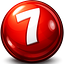
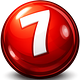
Marca da barra de cima maior e com movimento
- Aumentada a bola do 7, o nome ganhou dois pesos e a bola entra rolando ao abrir o app e gira ao passar o mouse

diff --git a/lib/components/shell/default_layout.dart b/lib/components/shell/default_layout.dart
@@ -1,3 +1,6 @@
+import 'dart:async';
+import 'dart:math' as math;
+
 import 'package:bolao_bolado/components/shell/gradient_decoration.dart';
 import 'package:bolao_bolado/core/app_cores.dart';
 import 'package:bolao_bolado/core/responsive.dart';
@@ -41,11 +44,14 @@ class DefaultLayout extends StatelessWidget {
   // espremida na altura de uma AppBar ela virava mancha e o nome não se lia.
   // Ela continua no splash e na tela inicial, onde tem espaço.
   //
-  // A bola tem 32px de altura EXATOS (images/bola_appbar.png, com as
+  // A bola tem 40px de altura EXATOS (images/bola_appbar.png, com as
   // variantes 2.0x/3.0x geradas em cima disso a partir de images/icone.png).
   // Caixa diferente faz o Flutter reescalar a arte na hora de desenhar e o
   // brilho e o traço do "7" amolecem. Mexer aqui obriga a regerar as três.
-  static const double alturaBola = 32;
+  //
+  // Foi 32 na primeira versão e lia como ícone solto, menor que o próprio
+  // nome ao lado. 40 ainda cabe na barra padrão do celular (56).
+  static const double alturaBola = 40;
 
   // Altura da barra no desktop. Fica nos 74 da logo antiga mesmo com a bola
   // menor: as telas de altura calculada já foram acertadas contra esse
@@ -136,64 +142,199 @@ class DefaultLayout extends StatelessWidget {
 }
 
 /// Bola do "7" com o nome do app ao lado (o nome some no celular).
-class _MarcaAppBar extends StatelessWidget {
+///
+/// Não é só imagem e texto: a bola entra rolando na primeira vez que a barra
+/// aparece e gira quando o mouse passa por cima. É a marca do app, e parada
+/// ao lado de um texto comum ela lia como ícone de sistema.
+class _MarcaAppBar extends StatefulWidget {
   final bool mostrarNome;
   final Color cor;
 
   const _MarcaAppBar({required this.mostrarNome, required this.cor});
 
   @override
+  State<_MarcaAppBar> createState() => _MarcaAppBarState();
+}
+
+class _MarcaAppBarState extends State<_MarcaAppBar>
+    with TickerProviderStateMixin {
+  // A entrada roda uma vez por sessão, não por tela: as trocas de rota são
+  // instantâneas e cada tela monta a sua AppBar, então sem isto a bola
+  // voltaria a rolar a cada navegação, e animação repetida em todo clique
+  // cansa em vez de enfeitar.
+  static bool _jaEntrou = false;
+
+  late final AnimationController _entrada = AnimationController(
+    vsync: this,
+    duration: const Duration(milliseconds: 750),
+  );
+  late final AnimationController _giro = AnimationController(
+    vsync: this,
+    duration: const Duration(milliseconds: 650),
+  );
+
+  @override
+  void initState() {
+    super.initState();
+    if (_jaEntrou) {
+      _entrada.value = 1;
+    } else {
+      _jaEntrou = true;
+      // O valor de "reduzir movimento" só pode ser lido depois do primeiro
+      // build (MediaQuery depende do contexto montado).
+      WidgetsBinding.instance.addPostFrameCallback((_) {
+        if (!mounted) return;
+        if (MediaQuery.disableAnimationsOf(context)) {
+          _entrada.value = 1;
+        } else {
+          unawaited(_entrada.forward());
+        }
+      });
+    }
+  }
+
+  @override
+  void dispose() {
+    _entrada.dispose();
+    _giro.dispose();
+    super.dispose();
+  }
+
+  void _girar() {
+    if (_giro.isAnimating || MediaQuery.disableAnimationsOf(context)) return;
+    unawaited(_giro.forward(from: 0));
+  }
+
+  @override
   Widget build(BuildContext context) {
+    // Rola da esquerda dando uma volta e meia, assenta com um leve passo
+    // além do ponto (easeOutBack) como bola que para de rolar.
+    final rolar = CurvedAnimation(
+      parent: _entrada,
+      curve: const Interval(0, 0.8, curve: Curves.easeOutBack),
+    );
+    // O nome entra só depois que a bola está quase parada, para os dois
+    // movimentos não disputarem o olho.
+    final nomeEntra = CurvedAnimation(
+      parent: _entrada,
+      curve: const Interval(0.45, 1, curve: Curves.easeOutCubic),
+    );
+    final girar = CurvedAnimation(parent: _giro, curve: Curves.easeOutCubic);
+
+    final bola = AnimatedBuilder(
+      animation: Listenable.merge([rolar, girar]),
+      builder: (context, filho) {
+        final t = rolar.value;
+        return Opacity(
+          opacity: _entrada.value.clamp(0, 0.25) * 4,
+          child: Transform.translate(
+            offset: Offset((t - 1) * 28, 0),
+            child: Transform.rotate(
+              angle: (t - 1) * 3 * math.pi + girar.value * 2 * math.pi,
+              child: filho,
+            ),
+          ),
+        );
+      },
+      child: DecoratedBox(
+        // Sombra curta embaixo da bola para ela pousar na barra em vez de
+        // flutuar recortada; preta e fraca funciona nos fundos claros e
+        // escuros, já que a barra é transparente sobre o gradiente.
+        decoration: BoxDecoration(
+          shape: BoxShape.circle,
+          boxShadow: [
+            BoxShadow(
+              color: Colors.black.withValues(alpha: 0.28),
+              blurRadius: 8,
+              offset: const Offset(0, 3),
+            ),
+          ],
+        ),
+        child: Image.asset(
+          // As variantes 2.0x/3.0x ao lado do arquivo é que resolvem o
+          // tamanho: o Flutter escolhe sozinho pelo DPR e cada tela desenha
+          // perto de 1:1. Foram reduzidas do icone.png em Lanczos com
+          // unsharp leve; ao mexer em `alturaBola`, regere as três (1×, 2×
+          // e 3× a caixa).
+          'images/bola_appbar.png',
+          height: DefaultLayout.alturaBola,
+          width: DefaultLayout.alturaBola,
+          // medium (bilinear) e não high (cúbico): perto de 1:1, que é onde
+          // as variantes deixam o desenho, o cúbico amolece.
+          filterQuality: FilterQuality.medium,
+        ),
+      ),
+    );
+
+    // Duas espessuras no mesmo nome dão o desenho de marca que um texto de
+    // peso único não tem, sem precisar de fonte nova nem de cor extra (a
+    // cor saturada do tema já é do botão principal).
+    final nome = Text.rich(
+      TextSpan(
+        children: [
+          TextSpan(
+            text: 'Bolão ',
+            style: TextStyle(fontWeight: FontWeight.w500),
+          ),
+          TextSpan(
+            text: 'Bolado',
+            style: TextStyle(fontWeight: FontWeight.w900),
+          ),
+        ],
+      ),
+      maxLines: 1,
+      softWrap: false,
+      style: TextStyle(
+        color: widget.cor,
+        fontSize: 22,
+        letterSpacing: -0.3,
+        height: 1,
+      ),
+    );
+
     // Um rótulo só para o conjunto: sem isso o leitor de tela anunciaria a
     // imagem e depois o mesmo nome em texto.
     return Semantics(
       label: DefaultLayout.nomeApp,
       header: true,
       child: ExcludeSemantics(
-        child: Row(
-          mainAxisSize: MainAxisSize.min,
-          children: [
-            Image.asset(
-              // As variantes 2.0x/3.0x ao lado do arquivo é que resolvem o
-              // tamanho: o Flutter escolhe sozinho pelo DPR e cada tela
-              // desenha perto de 1:1. Foram reduzidas do icone.png em
-              // Lanczos com unsharp leve; ao mexer em `alturaBola`, regere as
-              // três (1×, 2× e 3× a caixa).
-              'images/bola_appbar.png',
-              height: DefaultLayout.alturaBola,
-              width: DefaultLayout.alturaBola,
-              // medium (bilinear) e não high (cúbico): perto de 1:1, que é
-              // onde as variantes deixam o desenho, o cúbico amolece.
-              filterQuality: FilterQuality.medium,
+        child: MouseRegion(
+          onEnter: (_) => _girar(),
+          child: GestureDetector(
+            onTap: _girar,
+            child: Row(
+              mainAxisSize: MainAxisSize.min,
+              children: [
+                bola,
+                // Ao redimensionar a janela pela fronteira do celular o nome
+                // entra e sai deslizando, em vez de saltar e arrastar a bola
+                // de uma vez para o lado.
+                AnimatedSize(
+                  duration: const Duration(milliseconds: 220),
+                  curve: Curves.easeOutCubic,
+                  child: AnimatedSwitcher(
+                    duration: const Duration(milliseconds: 180),
+                    child: widget.mostrarNome
+                        ? Padding(
+                            key: const ValueKey('nome'),
+                            padding: const EdgeInsets.only(left: 12),
+                            child: FadeTransition(
+                              opacity: nomeEntra,
+                              child: SlideTransition(
+                                position: Tween(
+                                  begin: const Offset(-0.08, 0),
+                                  end: Offset.zero,
+                                ).animate(nomeEntra),
+                                child: nome,
+                              ),
+                            ),
+                          )
+                        : const SizedBox.shrink(key: ValueKey('sem-nome')),
+                  ),
+                ),
+              ],
             ),
-            // Ao redimensionar a janela pela fronteira do celular o nome
-            // entra e sai deslizando, em vez de saltar e arrastar a bola de
-            // uma vez para o lado.
-            AnimatedSize(
-              duration: const Duration(milliseconds: 220),
-              curve: Curves.easeOutCubic,
-              child: AnimatedSwitcher(
-                duration: const Duration(milliseconds: 180),
-                child: mostrarNome
-                    ? Padding(
-                        key: const ValueKey('nome'),
-                        padding: const EdgeInsets.only(left: 10),
-                        child: Text(
-                          DefaultLayout.nomeApp,
-                          maxLines: 1,
-                          softWrap: false,
-                          style: TextStyle(
-                            color: cor,
-                            fontSize: 20,
-                            fontWeight: FontWeight.w800,
-                            letterSpacing: 0.2,
-                          ),
-                        ),
-                      )
-                    : const SizedBox.shrink(key: ValueKey('sem-nome')),
-              ),
-            ),
-          ],
+          ),
         ),
       ),
     );
